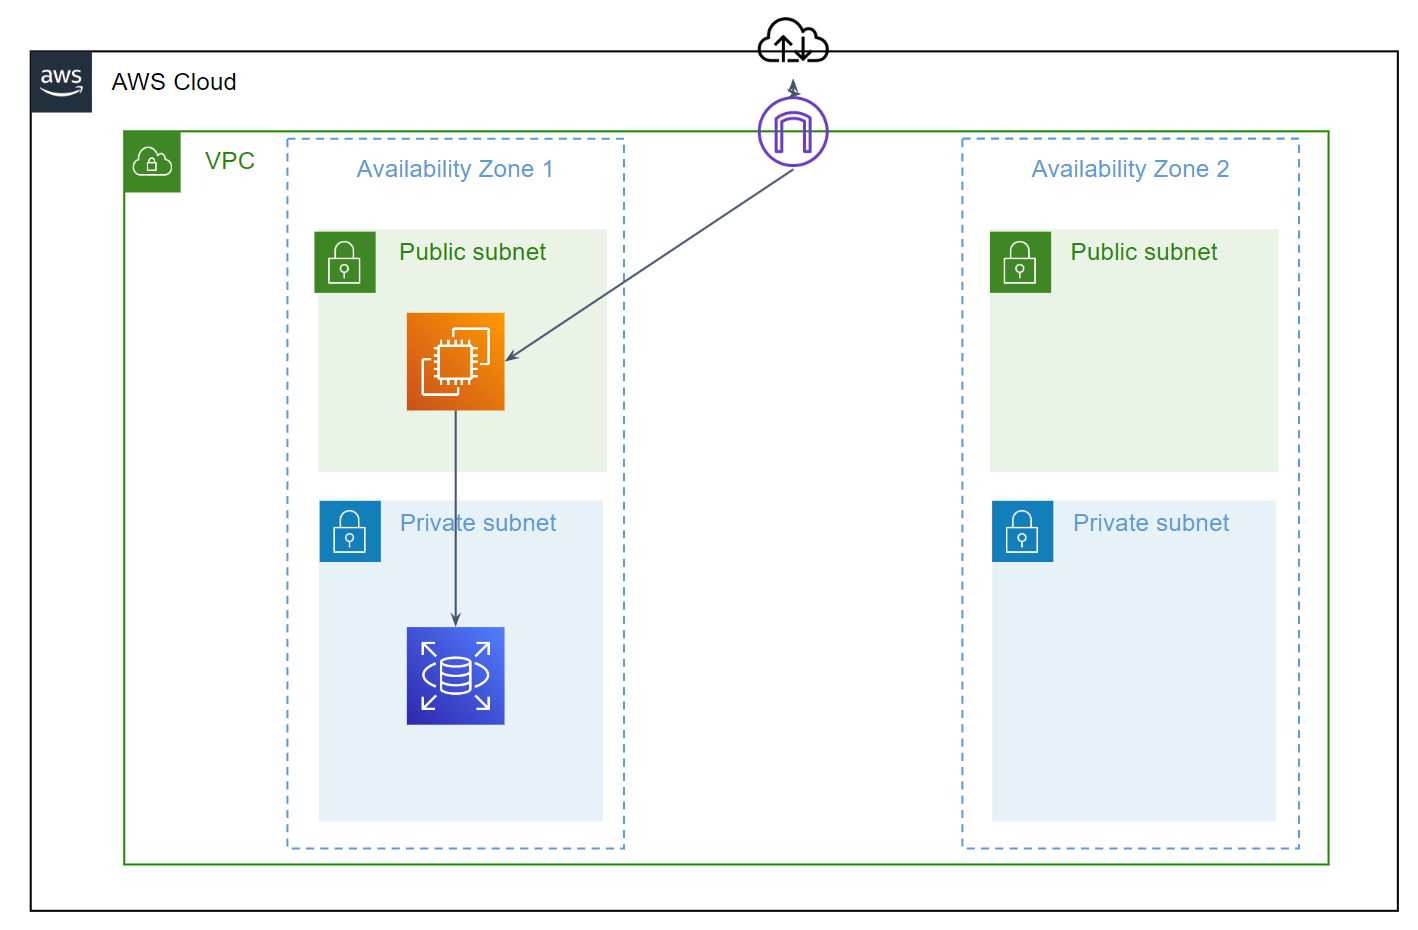
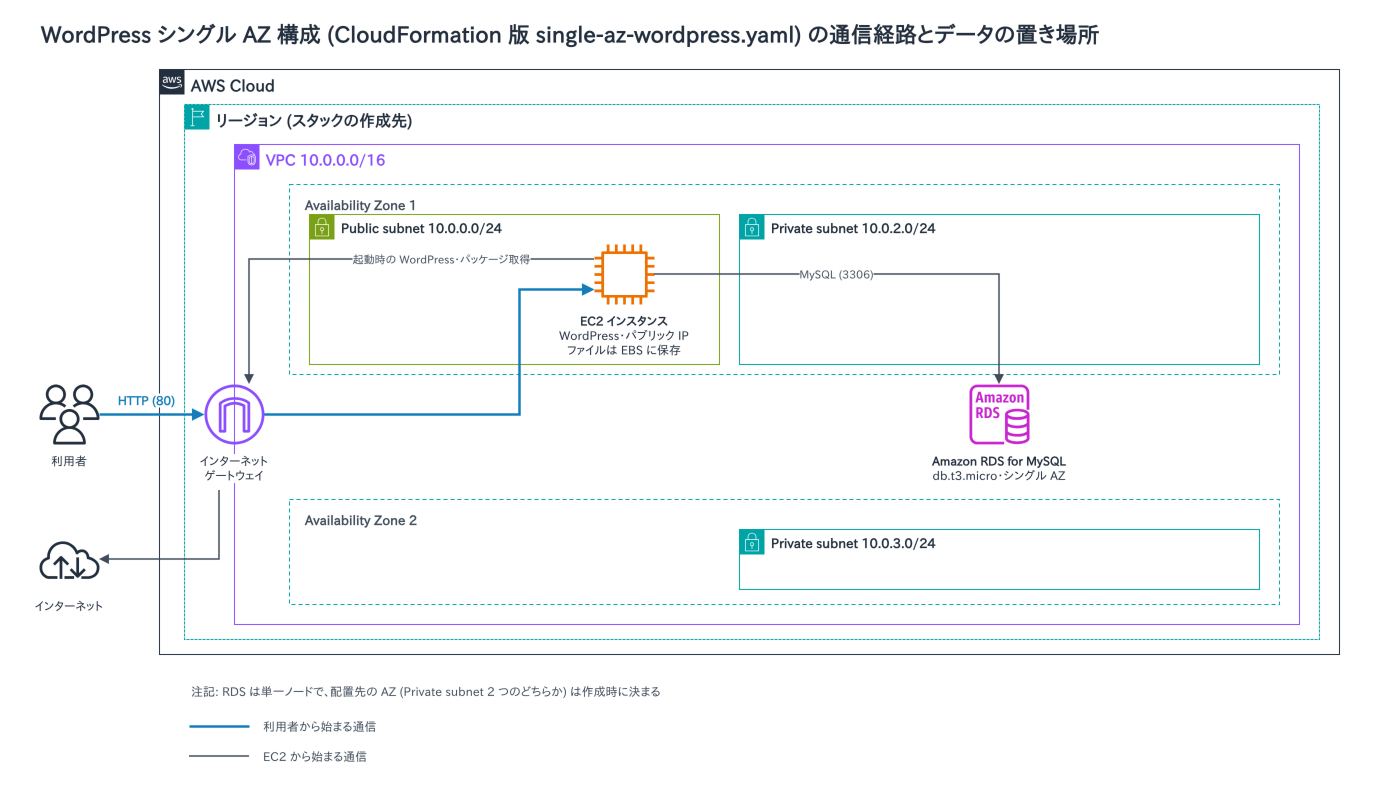
Replace single-az diagram
- Redraw single-az.png with draw.io and add its source single-az.drawio
- The old diagram showed a public subnet in AZ 2; the template creates only
  PrivateSubnet2 there, so the new diagram follows the template
- README: add alt text and a link to the source file

diff --git a/README.md b/README.md
@@ -16,9 +16,9 @@ WordPressを構築するCloudFormationテンプレートです。
 WordPressがインストールされた単一のEC2インスタンスを作成します。  
 ネットワークについては2つのAZにサブネットを作成します。
 
-アーキテクチャ図は以下の通りです。
+アーキテクチャ図は以下の通りです。編集元は [single-az.drawio](single-az.drawio) です。
 
-![](single-az.png)
+![single-az-wordpress.yaml の構成図](single-az.png)
 
 ## multi-az-wordpress.yaml について
 
